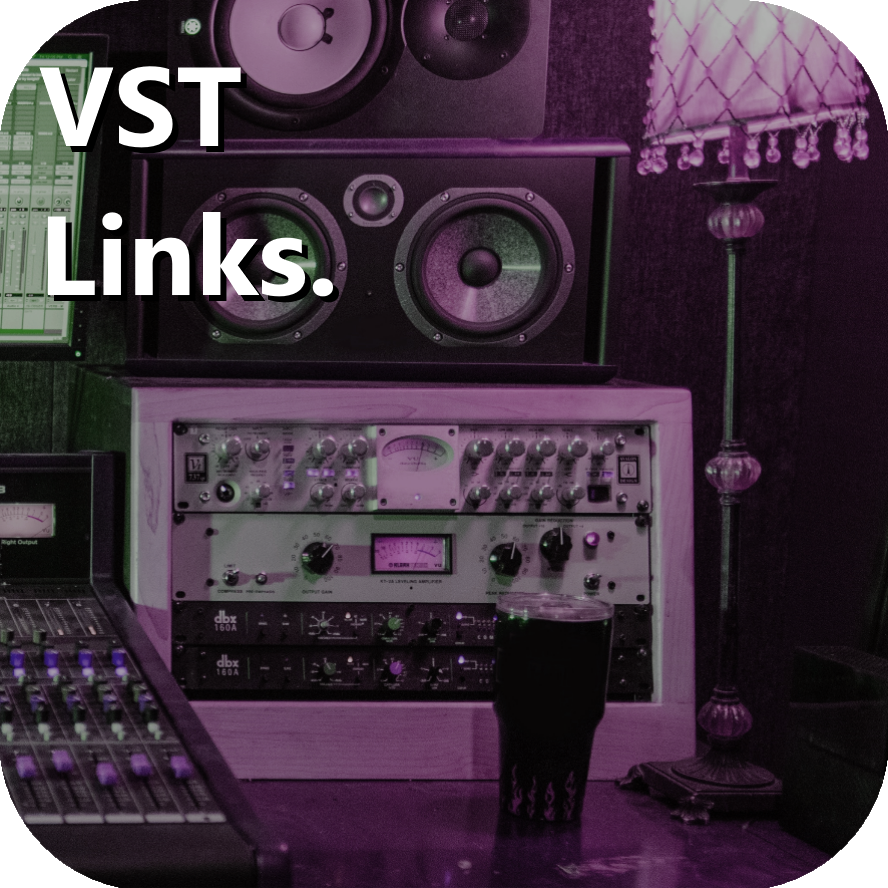
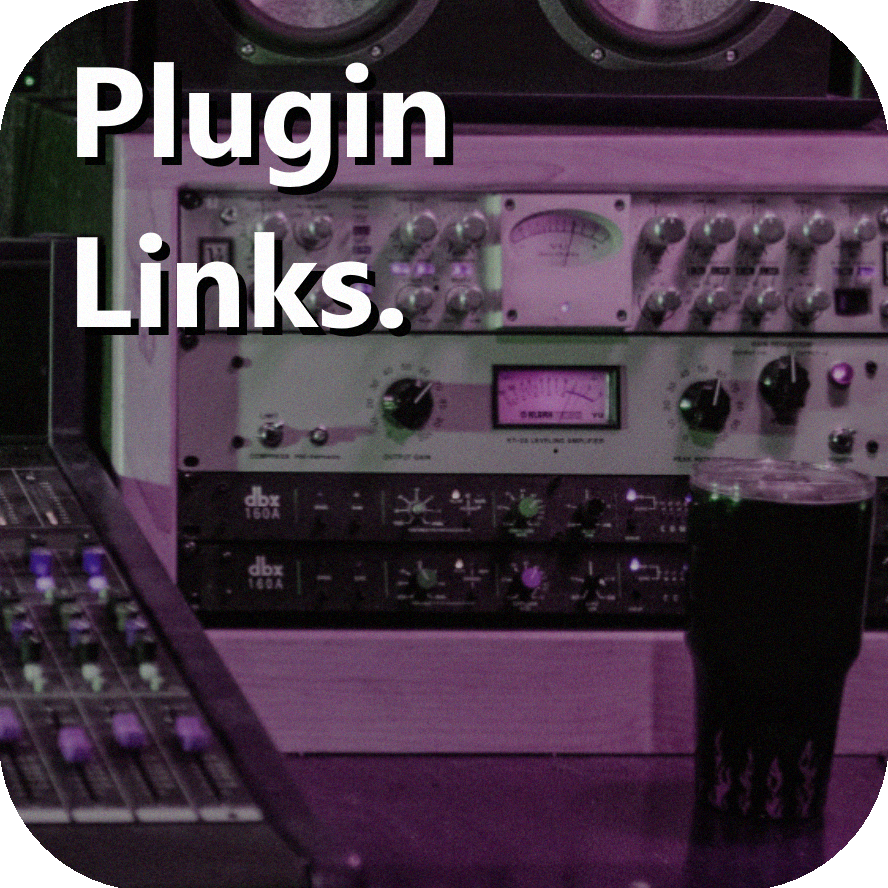
Add files via upload

diff --git a/links.html b/links.html
@@ -27,4 +27,24 @@
         ">Ample Guitar M Lite II
         </a>
     </div>
+    <br>
+    <br>
+    <h2 class="undername">Links To Download The Effects<M/h2>
+        <div class="vsts">
+        <br>
+        <a href="https://www.patreon.com/posts/yala-34323384">YALA</a>
+        <br>
+        <br>
+        <a href="https://www.izotope.com/en/products/vinyl.html">Vinyl</a>
+        <br>
+        <br>
+        <a href="https://labs.spitfireaudio.com/#category=&search=&new=true">ISOL8</a>
+        <br>
+        <br>
+        <a href="http://illformed.org/plugins/
+        ">TapeStop
+        </a>
+        <h3>thanks to everyone who made these plugins!</h3>
+    </div>
+
     
